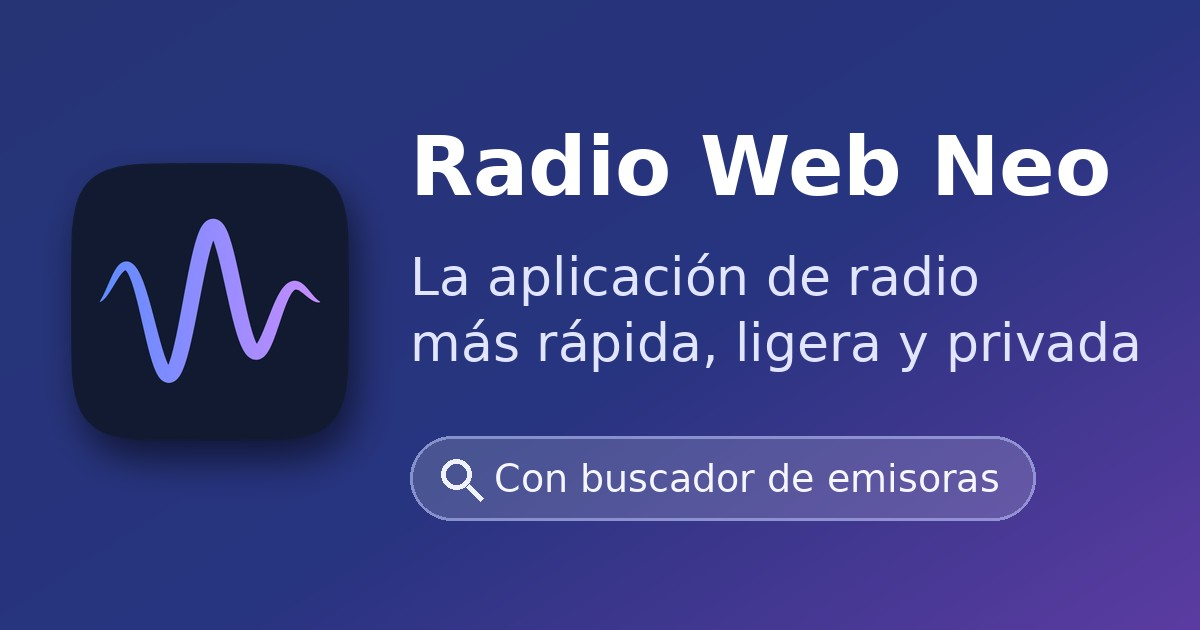
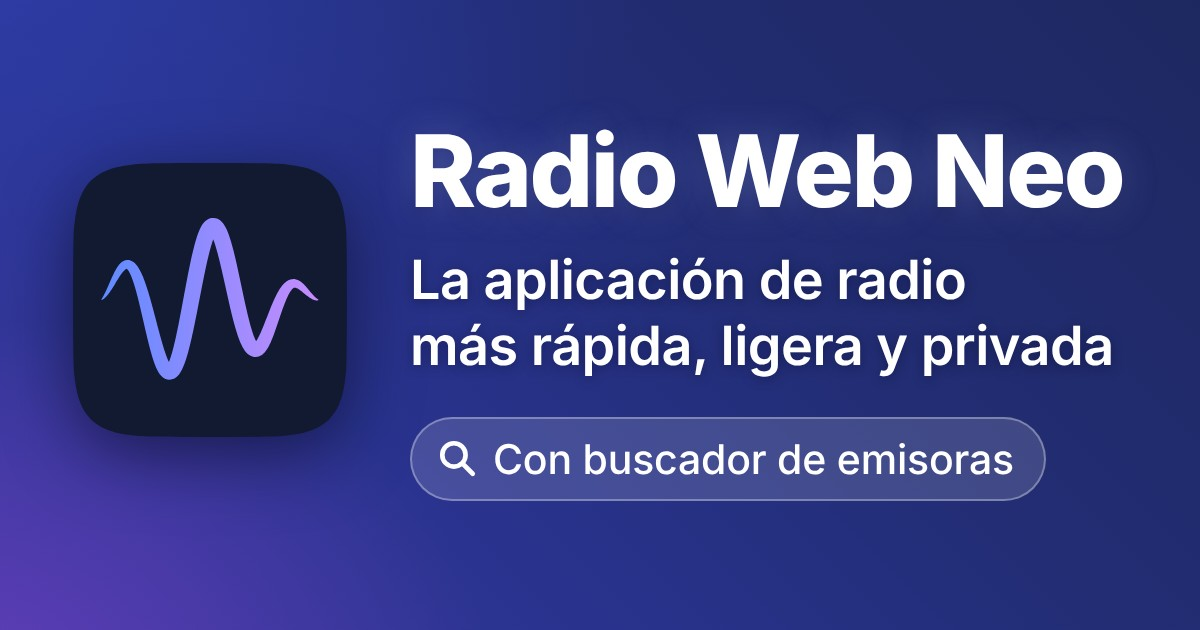
Nueva imagen para compartir (Open Graph): título como el de Fast y fondo claro a la izquierda
- Título en Inter extra gruesa con brillo suave (como en Radio Web Fast); subtítulo más grande, en blanco y seminegrita; píldora del buscador algo mayor
- Fondo a medio camino entre el de Neo y el de Fast, con menos contraste y al revés: claro a la izquierda (el icono destaca) y oscuro a la derecha (el texto)
- Enlaces con ?v=2 para que las redes no sigan mostrando la imagen antigua guardada
- Caché rn-shell-110

Claude-Session: https://claude.ai/code/session_01XLSZwhPhUE6roYAeEy4HVU

diff --git a/index.html b/index.html
@@ -15,7 +15,7 @@
 <meta property="og:url" content="https://radioneo.pages.dev/">
 <meta property="og:site_name" content="Radio Web Neo">
 <meta property="og:locale" content="es_ES">
-<meta property="og:image" content="https://radioneo.pages.dev/img/og-neo.jpg">
+<meta property="og:image" content="https://radioneo.pages.dev/img/og-neo.jpg?v=2">
 <meta property="og:image:width" content="1200">
 <meta property="og:image:height" content="630">
 <meta property="og:image:alt" content="Radio Web Neo: icono de la app fondo azul violeta, con el texto «La aplicación de radio más rápida, ligera y privada. Con buscador de emisoras»">
@@ -41,7 +41,7 @@
       "description": "Reproductor ligero con buscador de emisoras y boletines automáticos",
       "url": "https://radioneo.pages.dev/",
       "isPartOf": { "@id": "https://radioneo.pages.dev/#website" },
-      "image": "https://radioneo.pages.dev/img/og-neo.jpg",
+      "image": "https://radioneo.pages.dev/img/og-neo.jpg?v=2",
       "screenshot": [
         "https://radioneo.pages.dev/img/cap2-wide.webp",
         "https://radioneo.pages.dev/img/cap1-wide.webp",

diff --git a/sw.js b/sw.js
@@ -4,7 +4,7 @@
 // Excepción: stations.json (los ajustes por defecto, con las URL de los streams, que cambian con el tiempo) y los archivos de bbdd/ (la base de datos de emisoras, para la búsqueda) van "red primero", con la caché de respaldo.
 // Los sonidos y la imagen de la notificación (sounds/, img/) NO se gestionan aquí: la propia página los guarda en la caché "rn-sounds", que este archivo respeta.
 // Los streams (otro origen) tampoco pasan por aquí.
-const CACHE = 'rn-shell-109';
+const CACHE = 'rn-shell-110';
 const NET_WAIT_MS = 3000;   // lo que se espera a la red por stations.json y bbdd/ antes de tirar de la copia guardada
 const SHELL = [
   './', './css/styles.css', './favicon.ico', './favicon-32.png', './icon.svg', './stations.json', './bbdd/ser.json', './bbdd/los40.json', './bbdd/resto.json',
